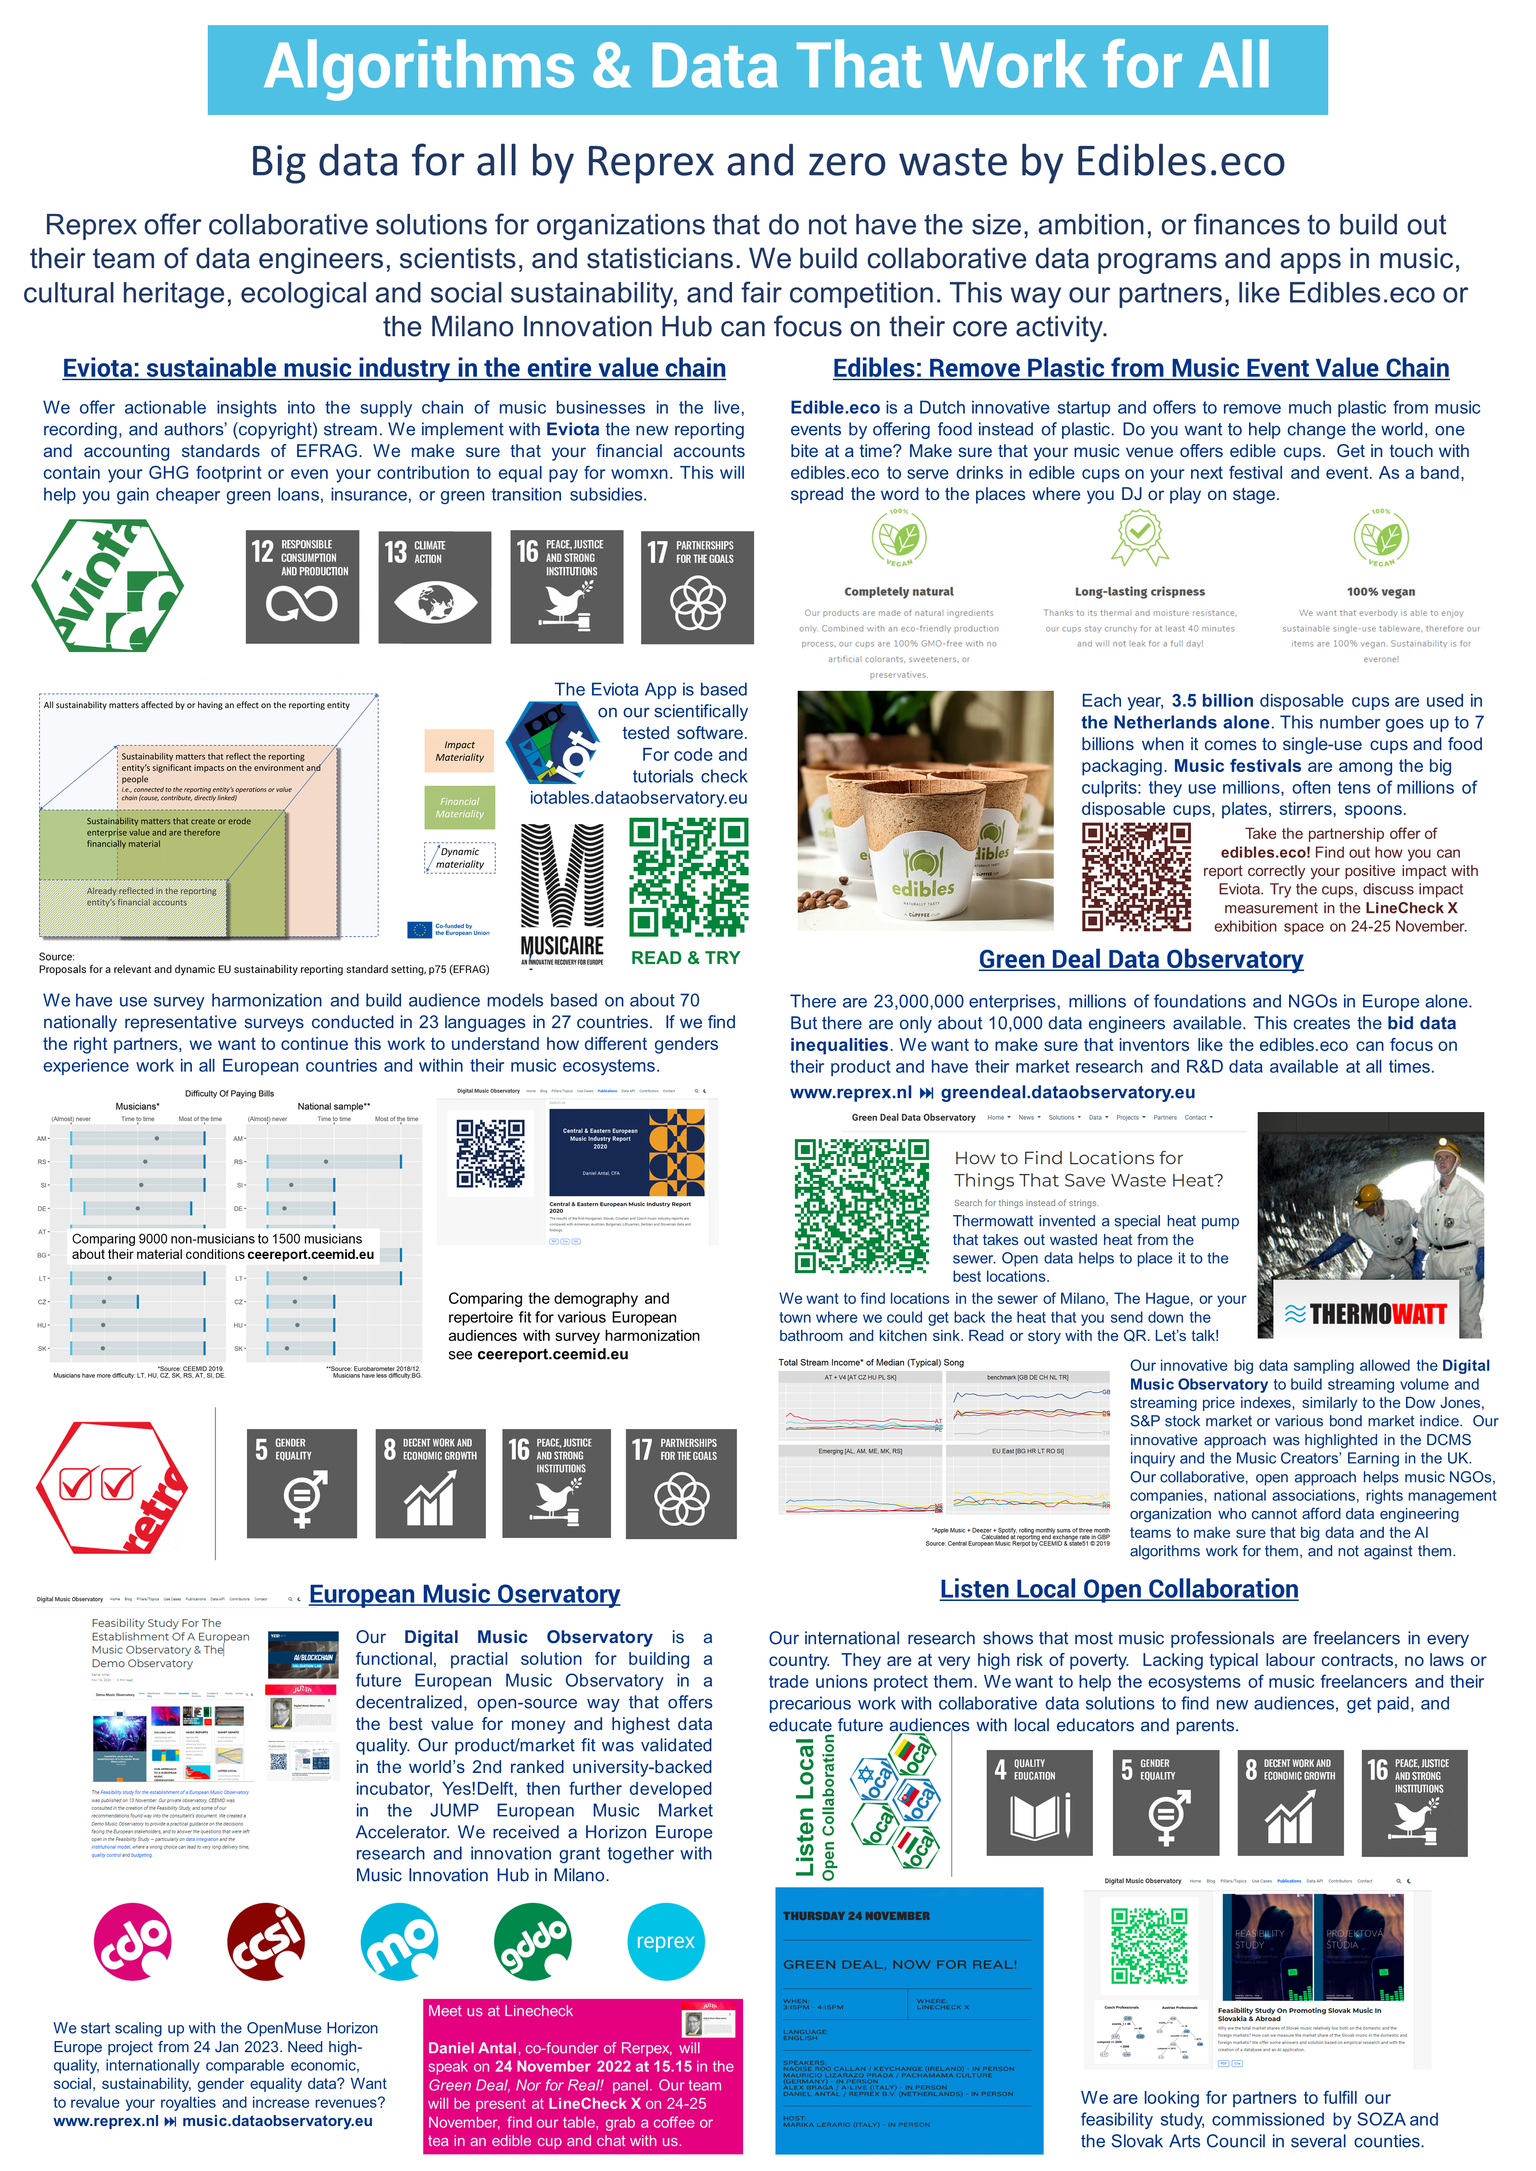
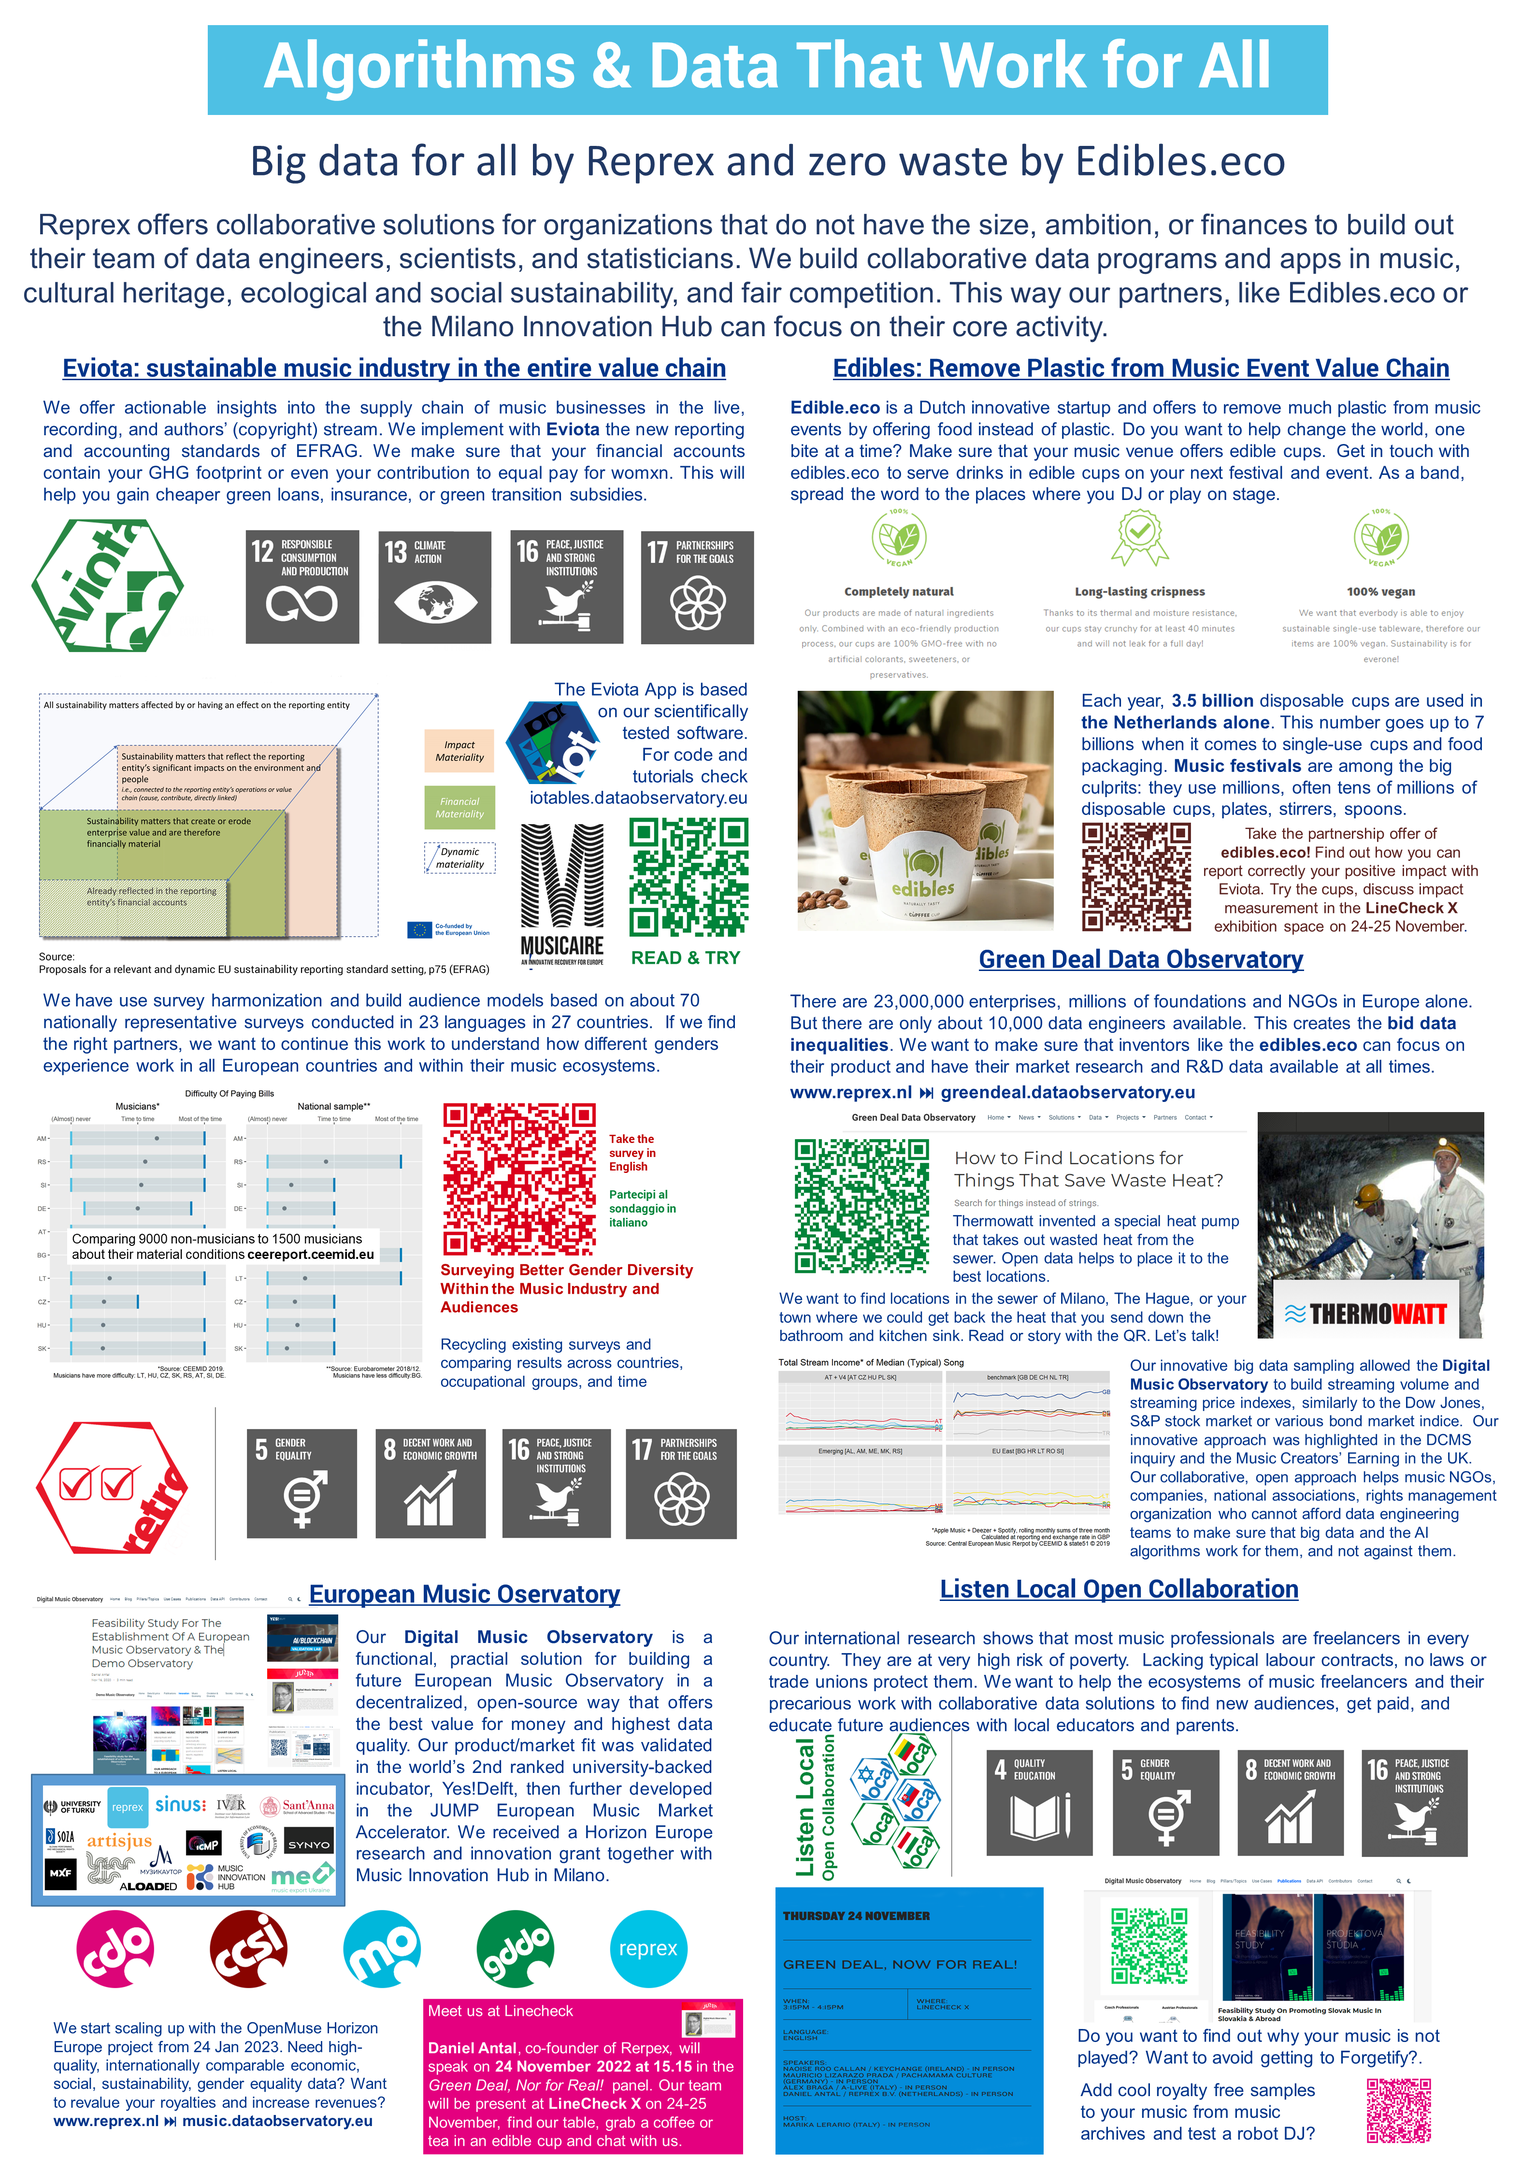
NEW POSTS

diff --git a/content/post/2022-11-22-surveyharmonies/index.md b/content/post/2022-11-22-surveyharmonies/index.md
@@ -1,0 +1,124 @@
+---
+title: "Surveying Better Gender Diversity Within the Music Industry and Audiences"
+subtitle: Recycling existing surveys and comparing results across countries, occupational groups, and time
+
+# Summary for listings and search engines
+summary: "In this case study, we will collect responses in English and Italian among music professionals and fans on LineCheck, and compare their answers with 10,000s of answers from their countries, from other occupational groups, and other countries."
+
+authors: ["daniel_antal", "james_edwards", "gabija_liaugminaite", "admin"]
+ 
+# Link this post with a project
+projects: ''
+
+# Date published
+date: "2022-11-22T09:09:00+01:00"
+lastmod: "2022-11-22T09:09:00+01:00"
+
+# Is this an unpublished draft?
+draft: false
+
+# Show this page in the Featured widget?
+featured: false
+
+links:
+- icon: linkedin
+  icon_pack: fab
+  name: Digital Music Observatory
+  url: https://www.linkedin.com/company/79286750/
+- icon: square-check
+  icon_pack: fas
+  name: "EN Google Form"
+  url: https://docs.google.com/forms/d/e/1FAIpQLSet43sYVvK1HHzabxuO3NRpdzKd2kLL4xwhaiiuwGmhJVqOVg/viewform?usp=sf_link
+- icon: square-check
+  icon_pack: fas
+  url: https://docs.google.com/forms/d/e/1FAIpQLSeI7GJ0JDi7dNr-sL4JEsQ86ksNH00tqNSwmB4fEwBOBqseBA/viewform?usp=sf_link
+  name: "IT Google Form"
+- icon: square-check
+  icon_pack: fas
+  url: https://www.surveymonkey.com/r/surveyharmonies_linecheck_demo
+  name: "SurveyMonkey (can be many langauges)"
+
+# Featured image
+image:
+  caption: ''
+  focal_point: "bottom"
+  placement: 2
+  preview_only: true
+
+tags:
+  - KeyChange
+  - Gender Diversity
+  - Surveyharmonies
+  - Surveys
+  
+---
+
+**In this case study, we will collect responses in English and Italian among music professionals and fans on LineCheck, and compare their answers with 10,000s of answers from their countries, from other occupational groups, and other countries.**
+
+{{% callout note %}}
+How to fill out this survey?
+- EN on [Google Forms](https://docs.google.com/forms/d/e/1FAIpQLSet43sYVvK1HHzabxuO3NRpdzKd2kLL4xwhaiiuwGmhJVqOVg/viewform?usp=sf_link) (will be our free tool) 
+- IT su [Google Forms](https://docs.google.com/forms/d/e/1FAIpQLSeI7GJ0JDi7dNr-sL4JEsQ86ksNH00tqNSwmB4fEwBOBqseBA/viewform?usp=sf_link) (sarà il nostro strumento gratuito)
+- [SurveyMonkey](https://www.surveymonkey.com/r/surveyharmonies_linecheck_demo) can be more suitable for more languages.
+{{% /callout %}}
+
+{{<toc>}}
+
+## What are the benefits of recycling and harmonizing surveys?
+
+`Surveyharmonies` allows you to make more, bolder, and better-supported statements for your argument. Our technology vastly improves the quality and the inferential capacity of your surveys. 
+
+{{< figure src="img/blogposts_2021/difficulty_bills_levels.jpg" caption="Retrospective survey harmonization means that your answers (we surveyed about 1500 music professionals in 2019) can be compared with other respondants (for example, the same questions asked in Eurobarometer from more than 30,000 people.)" numbered="false" >}}
+
+
+## Who we are asking?
+
+We are asking music professionals in almost 100 artistic, technical or managerial roles.  The way we form the questions make your answers comparable to the worlds largest database of musicians' (anonymous) income and working condition database, and many non-music specific survey programs, such as Eurobarometer or the European Values Survey.
+
+## What are we asking?
+
+We are asking questions that have been asked before.  We created a small demonstration survey to show how we can better understand gender diversity in the music sector.  We will anonymously record your answers, and connect them to the answers of more than 28,000 people who answered these questions earlier.  
+
+{{% callout note %}}
+How to fill out this survey?
+- EN on Google Forms (will be our free tool) 
+- IT su Google Forms (sarà il nostro strumento gratuito)
+- Both lanugages on SurveyMonkey (free for now)
+{{% /callout %}}
+
+#### In your opinion, are inequalities between women and men nowadays very widespread, fairly widespread, fairly rare or very rare in the country where you live?
+
+This question was asked in the {{< spoiler text="Eurobarometer 82.4 survey" >}}
+Eurobarometer 82.4: The European Parliament, Autonomous Systems, Gender Equality, and Smoking Habits, November-December 2014.
+{{< /spoiler >}}
+This means that we can [compare](https://www.icpsr.umich.edu/web/ICPSR/studies/36664/datasets/0001/variables/QB2?archive=icpsr) what different occupational groups, men and women, different age groups answered to this question.
+
+
+
+#### And within the music business or music non-profit sector of your country?
+
+We are asking _And within the music business or music non-profit sector of your country, are inequalities between women and men nowadays very widespread, fairly widespread, fairly rare, or very rare in the country that you chose (where you live and work?)_  to gain more insight about the potential differences within the music sector and the country where the music professional lives.
+
+{{% callout note %}}
+Works best if you use this from music professionals and non-music professionals in the same country.
+{{% /callout %}}
+
+#### In your opinion, in your country, in the year around 2030, do you think that …?
+
+- [ ] The image of women will be less stereotyped in the media ([compare](https://www.icpsr.umich.edu/web/ICPSR/studies/28186/datasets/0001/variables/QC16_1?archive=ICPSR))
+- [ ] Men and women will earn the same pay ([compare](https://www.icpsr.umich.edu/web/ICPSR/studies/28186/datasets/0001/variables/QC16_2?archive=ICPSR))
+- [ ] Men will take care of more household and family tasks ([compare](https://www.icpsr.umich.edu/web/ICPSR/studies/28186/datasets/0001/variables/QC16_3?archive=ICPSR))
+- [ ] Women will be more represented among Heads of State and government ([compare](https://www.icpsr.umich.edu/web/ICPSR/studies/28186/datasets/0001/variables/QC16_4?archive=ICPSR))
+- [ ] Women will be more present in traditionally masculine professions ([compare](https://www.icpsr.umich.edu/web/ICPSR/studies/28186/datasets/0001/variables/QC16_5?archive=ICPSR)
+- [ ] Acts of violence against women will have decreased ([compare](https://www.icpsr.umich.edu/web/ICPSR/studies/28186/datasets/0001/variables/QC16_6?archive=ICPSR))
+- [ ] Women’s rights in developing countries will be better recognised ([compare](https://www.icpsr.umich.edu/web/ICPSR/studies/28186/datasets/0001/variables/QC16_7?archive=ICPSR))
+
+This question was asked in the {{< spoiler text="Eurobarometer 72.2 survey in 2009." >}}
+Eurobarometer 72.2: Nuclear Energy, Corruption, Gender Equality, Healthcare, and Civil Protection, September-October 2009.
+{{< /spoiler >}}
+
+This means that we can compare what different occupational groups, men and women, different age groups answered to this question. In 2009, 2030 was a long way many years ahead, but not any more. We could ask this question in two different ways again.  We could ask what people think about 2040 to have a similar perspective, or re-ask how they think about 2030 which is only 8 years away by now. 
+
+See our earlier blogposts: 
+- [What is survey harmonization?](https://music.dataobservatory.eu/post/2022-02-16-survey-harmonization/)
+- [Climate awareness use case](https://music.dataobservatory.eu/post/2021-03-05-retroharmonize-climate/)

diff --git a/content/event/2022-11-24-linecheck/index.md b/content/event/2022-11-24-linecheck/index.md
@@ -20,9 +20,6 @@ summary: Reprex, Edibles, Thermowatt at the Digital Music Observatory and the Gr
 
 abstract: 'Reprex, Edibles, Thermowatt at the Digital Music Observatory and the Green Deal Data Observatory in Linecheck X.'
 
-
-# Talk start and end times.
-#   End time can optionally be hidden by prefixing the line with `#`.
 date: '2022-11-24T15:15:00Z'
 date_end: '2022-11-24T16:15:00Z'
 all_day: false
@@ -72,8 +69,15 @@ links:
   icon_pack: fas
   name: Download Our Poster Presentation
   url: ..//documents/Reprex-Linecheck-2022-poster.png
+- icon: square-check
+  icon_pack: fas
+  name: "EN Google Form"
+  url: https://docs.google.com/forms/d/e/1FAIpQLSet43sYVvK1HHzabxuO3NRpdzKd2kLL4xwhaiiuwGmhJVqOVg/viewform?usp=sf_link
+- icon: square-check
+  icon_pack: fas
+  url: https://docs.google.com/forms/d/e/1FAIpQLSeI7GJ0JDi7dNr-sL4JEsQ86ksNH00tqNSwmB4fEwBOBqseBA/viewform?usp=sf_link
+  name: "IT Google Form"  
 
-# Markdown Slides (optional).
 slides: reprex-linecheck-2022
 
 # Projects (optional).
@@ -89,7 +93,8 @@ Daniel Antal, co-founder of Reprex will participate in the panel about on **Thur
 
 {{% callout note %}}
 At LineCheck X, you can find out more about our projects
-- You can get a free, total value chain based sustainability report. (Get in touch with us before 18 November)
+- You can get a free, total value chain based sustainability report. 
+- Find out how want to [measure better with surveys](https://music.dataobservatory.eu/post/2022-11-22-surveyharmonies/) gender diversity across Europe. And try our test surveys in [English](https://docs.google.com/forms/d/e/1FAIpQLSet43sYVvK1HHzabxuO3NRpdzKd2kLL4xwhaiiuwGmhJVqOVg/viewform?usp=sf_link) or [Italian](https://docs.google.com/forms/d/e/1FAIpQLSeI7GJ0JDi7dNr-sL4JEsQ86ksNH00tqNSwmB4fEwBOBqseBA/viewform?usp=sf_link).
 - We will demonstrate how you can eradicate packaging waste from your music events by making the packaging **edible**.
 - And you can find out how we are trying to find where energy is [going down the sewage](https://greendeal.dataobservatory.eu/post/2022-10-24_thermowatt/), literally, with Thermowatt and the [Green Deal Data Observatory](https://greendeal.dataobservatory.eu/). 
 {{% /callout %}}
@@ -99,8 +104,8 @@ At LineCheck X, you can find out more about our projects
 
 Our solution benefits the music MSMEs and CSOs in several ways:
 - [x] The European Commission estimates that the cost of connecting sustainability and finanical reporting will cost on average €10,000 for corporations. We want to bring down the voluntary reporting costs for MSMEs below €500 euro to benefit from `green loans`, `green insurance` and other `green financing`. 
-- [x] It provides them with a size adequate sustainability management and reporting tool that helps first the management of greenhouse gas emissions, and later sustainable water use, pollutions, biodiversity, and recycling in their entire value chain (for example, it flags environmental risks in the supply base of a festival including equipment rentals, transport, security firms, catering facilities, etc.) by connecting standard accounting documents of the MSME with SNA and EEA science based benchmarks.
-- [x] Our system will be extendible to management of social sustainability. We are also showcasing harmonized gender inequality data collection with our other project (see below.)
+- [x] It provides them with a size adequate sustainability management and reporting tool that helps first the management of greenhouse gas emissions, and later sustainable water use, pollution, biodiversity, and recycling in their entire value chain (for example, it flags environmental risks in the supply base of a festival including equipment rentals, transport, security firms, catering facilities, etc.) by connecting standard accounting documents of the MSME with SNA and EEA science based benchmarks.
+- [x] Our system will be extended to the management of social sustainability. We are also showcasing harmonized gender inequality data collection with our other project (see below.)
 
 <td style="text-align: center;">{{< figure src="/posters/Reprex-Linecheck-2022-poster.png" caption="We are looking for beta testers for our simplified sustainability report that is made from your `trial balance`. We sign and NDA about your accounting data if you test with us, and you can test with older data, too. Beta testing is free." numbered="false" >}}</td>
 {{< icon name="download" pack="fas" >}} Download our {{< staticref "/documents/Reprex-Linecheck-2022-poster.png" "newtab" >}}poster presentation{{< /staticref >}}.
@@ -119,12 +124,15 @@ Our solution benefits the music MSMEs and CSOs in several ways:
 
 ### Harmonizing surveys on gender (in)equaliaty
 
+
+Our [Surveymonkey](https://www.surveymonkey.com/r/surveyharmonies_linecheck_demo) solution is better when you have many languages, or more complex questions, including watching a diagram, or showing a small video clip. It comes with a small fee.  The Google Docs solutions (see or [English](https://docs.google.com/forms/d/e/1FAIpQLSet43sYVvK1HHzabxuO3NRpdzKd2kLL4xwhaiiuwGmhJVqOVg/viewform?usp=sf_link) or [Italian](https://docs.google.com/forms/d/e/1FAIpQLSeI7GJ0JDi7dNr-sL4JEsQ86ksNH00tqNSwmB4fEwBOBqseBA/viewform?usp=sf_link) demo will be offered for free.)
+
 - [x] You can create better surveys with less cost: you only need to ask the information, or change of information, that is not included in our harmonized datasets. Shorter, better questionnaires, smaller samples sizes, huge cost savings.
 
 - [x] When you make questionnaire-based research, you immediately get a history (the same question asked years ago) and an international comparison (the same question asked in other countries.)
 
 - [x] Often you do not even have to pay for the survey, because somebody else has already made a similar taxpayer funded research and we can just get the data for you. 
 
-<td style="text-align: center;">{{< figure src="/img/blogposts_2021/difficulty_bills_levels.jpg" caption="Survey harmonization is a powerful research tool to increase the usability of questionnaire-based empirical research. Read more on [our blog](https://music.dataobservatory.eu/post/2022-02-16-survey-harmonization/)." numbered="false" >}}</td>
+<td style="text-align: center;">{{< figure src="/img/blogposts_2021/difficulty_bills_levels.jpg" caption="Survey harmonization is a powerful research tool to increase the usability of questionnaire-based empirical research. Read more on [our blog](https://music.dataobservatory.eu/post/2022-11-22-surveyharmonies/)." numbered="false" >}}</td>
 
 

diff --git a/content/post/2022-10-29_reprex-talk-to-all/index.md b/content/post/2022-10-29_reprex-talk-to-all/index.md
@@ -33,10 +33,6 @@ links:
   icon_pack: fab
   name: Reprex
   url: https://www.linkedin.com/company/68855596/
-- icon: person-booth
-  icon_pack: fas
-  name: Vote
-  url: ../post/2022-10-29_reprex-talk-to-all/  
   
 ---
 {{< toc >}}
